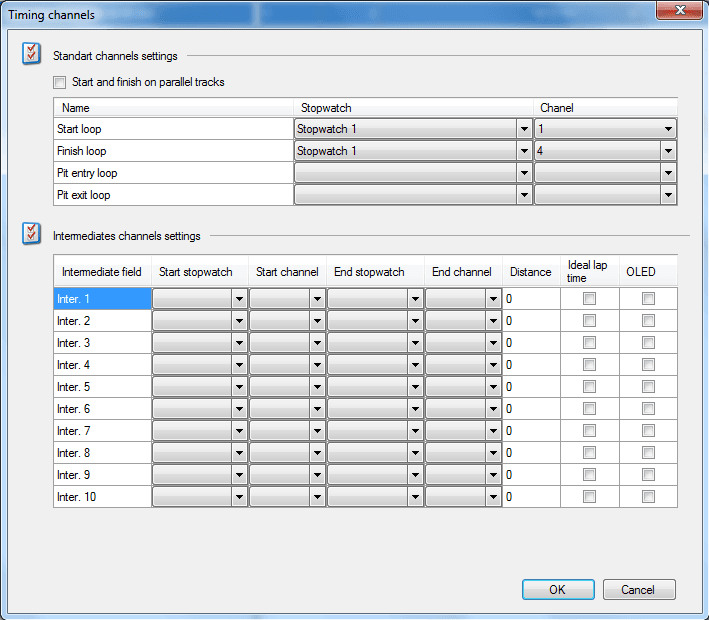
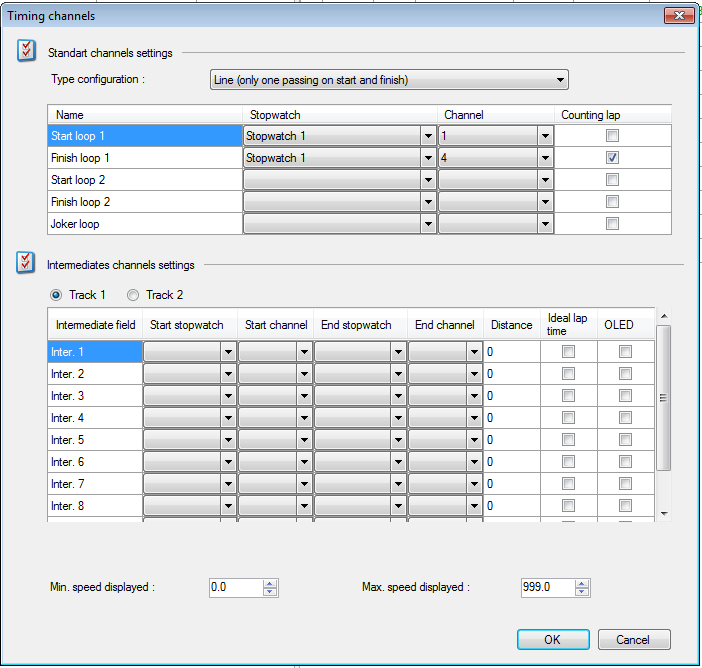
# upload from local #

diff --git a/style/global.css b/style/global.css
@@ -308,7 +308,7 @@ td img {
     font-weight: 700;
 }
 
-.OddRow .elite_no {
+/*.OddRow .elite_no {
     font-weight: 700;
     background-color: rgba(37, 37, 37, 0.5);
     color: #fff;
@@ -318,9 +318,16 @@ td img {
     background-color: rgba(80, 80, 80, 0.5);
     color: #fff;
 }
+*/
+.elite_no {
+    font-weight: 700;
+    background-color: rgba(37, 37, 37, 0.5);
+    color: #fff;    
+    text-shadow: none;
+}
 
 tr.OddRow:hover, tr.EvenRow:hover {
-    background: #ccc;
+    background: #ffcc33;
 }
 
 /*#Id_Numero{font-weight: 700; background-color: rgba(0,0,0,0.5); color: #fff;}*/

diff --git a/manual/index.php b/manual/index.php
@@ -183,6 +183,8 @@ direction: ltr;
     <p class="c1"><span><img alt="image05.png" src="/manual/images/image05.png"></span></p>
     
     <p class="c1"><span><img alt="image01.png" src="/manual/images/image01.png"></span></p>
+
+    <p class="c0"><span>יש לוודא שבחרנו  line  ו- counting lap מסומן רק בסיום ההקפה</span></p>
     
     <p class="c1"><span><img alt="image04.png" src="/manual/images/image04.png"></span></p>
     
